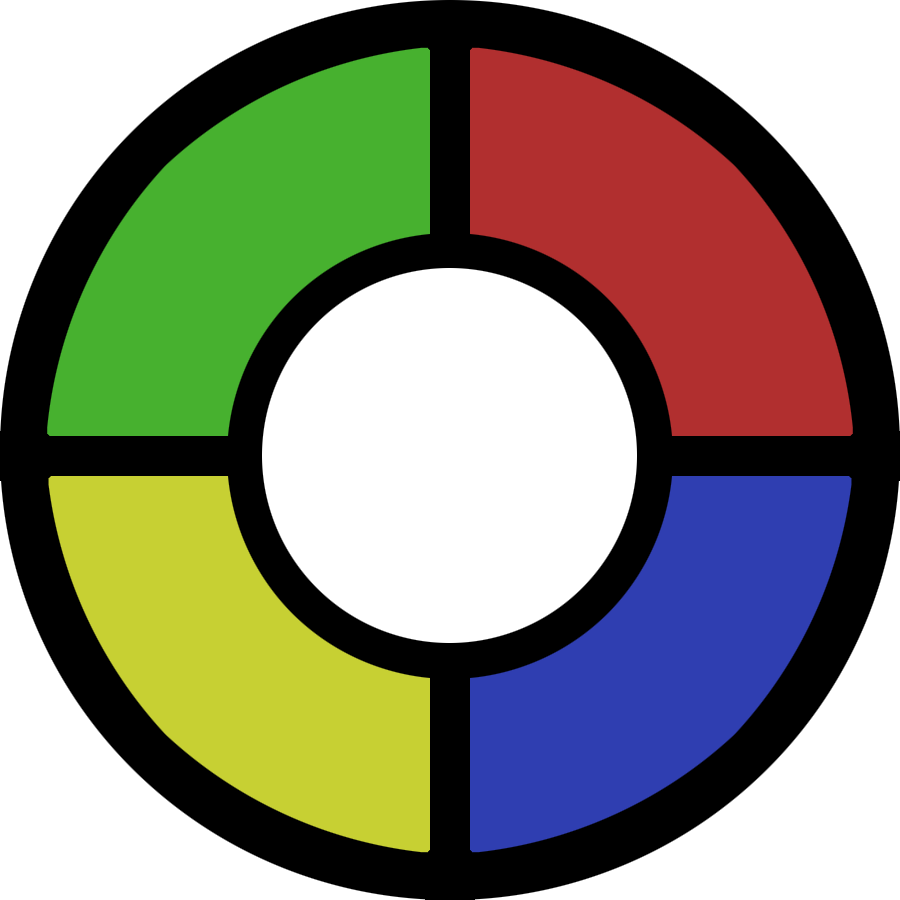
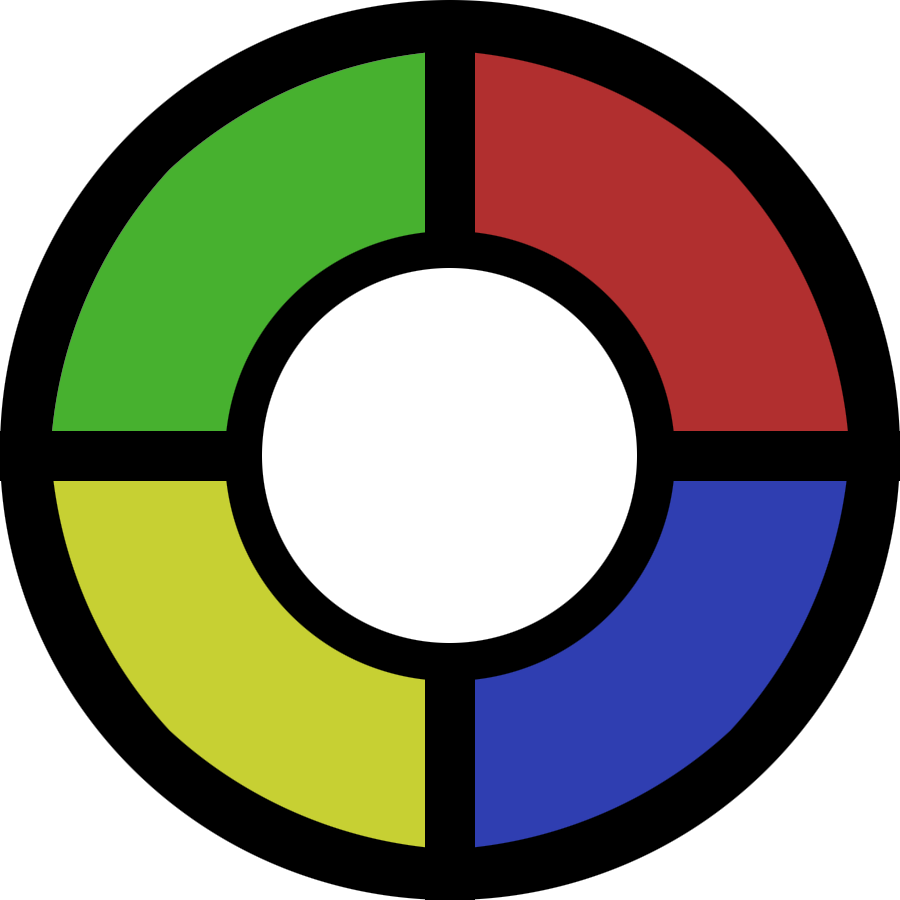
Restructure layout (resize bug introduced)

diff --git a/scss/style.scss b/scss/style.scss
@@ -67,24 +67,65 @@ body {
 }
 
 img{
-	display: block;
+	display: inline-block;
 }
+
+$width: 80vw;
+$height: 80vw;
+$max-height: 80vh;
+$max-width: 80vh;
+$degrees: 270deg;
 
 /* === Custom styling depending on the project === */
 .simon{
+  position: relative;
+  top: 0px;
+  left: 0px;
   display: inline-block;
-  min-width: 50px;
-  min-height: 50px;
-
-  width: 75vw;
-  height: 75vw;
-  max-height: 75vh;
-  max-width: 75vh;
+  width: $width;
+  height: $height;
+  max-height: $max-height;
+  max-width: $max-width;
 }
-.game{
- // max-height: 85vh;
-  //max-width: 85vh;
-  //margin: 0 auto;
+
+.simon-part{
+  position: relative;
+  width: $width / 2;
+  height: $height / 2;
+  max-height: $max-height / 2;
+  max-width: $max-width / 2;
+}
+
+.simon-part-left{
+  @extend .simon-part;
+  float: left;
+
+}
+.simon-part-right{
+  @extend .simon-part;
+  float: right;
+}
+.simon-part-click{
+  @extend .simon-part;
+  position: absolute;
+  bottom: 0px;
+  left: 0px;
+  -webkit-transform: rotate($degrees);
+  -moz-transform: rotate($degrees);
+  -o-transform: rotate($degrees);
+  -ms-transform: rotate($degrees);
+  transform: rotate($degrees);
+  z-index: 2;
+}
+.simon-part-middle{
+  position: absolute;
+  width: $width * (350/900);
+  height: $height * (350/900);
+  max-height: $max-height * (350/900);
+  max-width: $max-width * (350/900);
+
+  top: 24.35vh;
+  left: 24.4vh;  
 }
 
 

diff --git a/style.css b/style.css
@@ -59,17 +59,51 @@ body {
   height: 100%; }
 
 img {
-  display: block; }
+  display: inline-block; }
 
 /* === Custom styling depending on the project === */
 .simon {
+  position: relative;
+  top: 0px;
+  left: 0px;
   display: inline-block;
-  min-width: 50px;
-  min-height: 50px;
-  width: 75vw;
-  height: 75vw;
-  max-height: 75vh;
-  max-width: 75vh; }
+  width: 80vw;
+  height: 80vw;
+  max-height: 80vh;
+  max-width: 80vh; }
+
+.simon-part, .simon-part-left, .simon-part-right, .simon-part-click {
+  position: relative;
+  width: 40vw;
+  height: 40vw;
+  max-height: 40vh;
+  max-width: 40vh; }
+
+.simon-part-left {
+  float: left; }
+
+.simon-part-right {
+  float: right; }
+
+.simon-part-click {
+  position: absolute;
+  bottom: 0px;
+  left: 0px;
+  -webkit-transform: rotate(270deg);
+  -moz-transform: rotate(270deg);
+  -o-transform: rotate(270deg);
+  -ms-transform: rotate(270deg);
+  transform: rotate(270deg);
+  z-index: 2; }
+
+.simon-part-middle {
+  position: absolute;
+  width: 31.11111vw;
+  height: 31.11111vw;
+  max-height: 31.11111vh;
+  max-width: 31.11111vh;
+  top: 24.35vh;
+  left: 24.4vh; }
 
 /* DEBUG */
 .border {

diff --git a/index.html b/index.html
@@ -30,7 +30,13 @@ http://colintoh.com/blog/display-table-anti-hero
 	<div class="main">
 		<div class="box content">
 			<div class="simon">
-				<img class="img-responsive" src="images/simon.png">
+				<img class="img-responsive simon-part-left" src="images/top-left.png">
+				<img class="img-responsive simon-part-right" src="images/top-right.png">
+				<img class="img-responsive simon-part-left" src="images/bottom-left.png">
+				<img class="img-responsive simon-part-right" src="images/bottom-right.png">
+				<img class="img-responsive simon-part-click" src="images/click-top-left2.png">
+				<img class="img-responsive simon-part-middle" src="images/middle.png">
+				
 			</div> <!-- m-x-auto for center align-->
 		</div>
 	</div>
